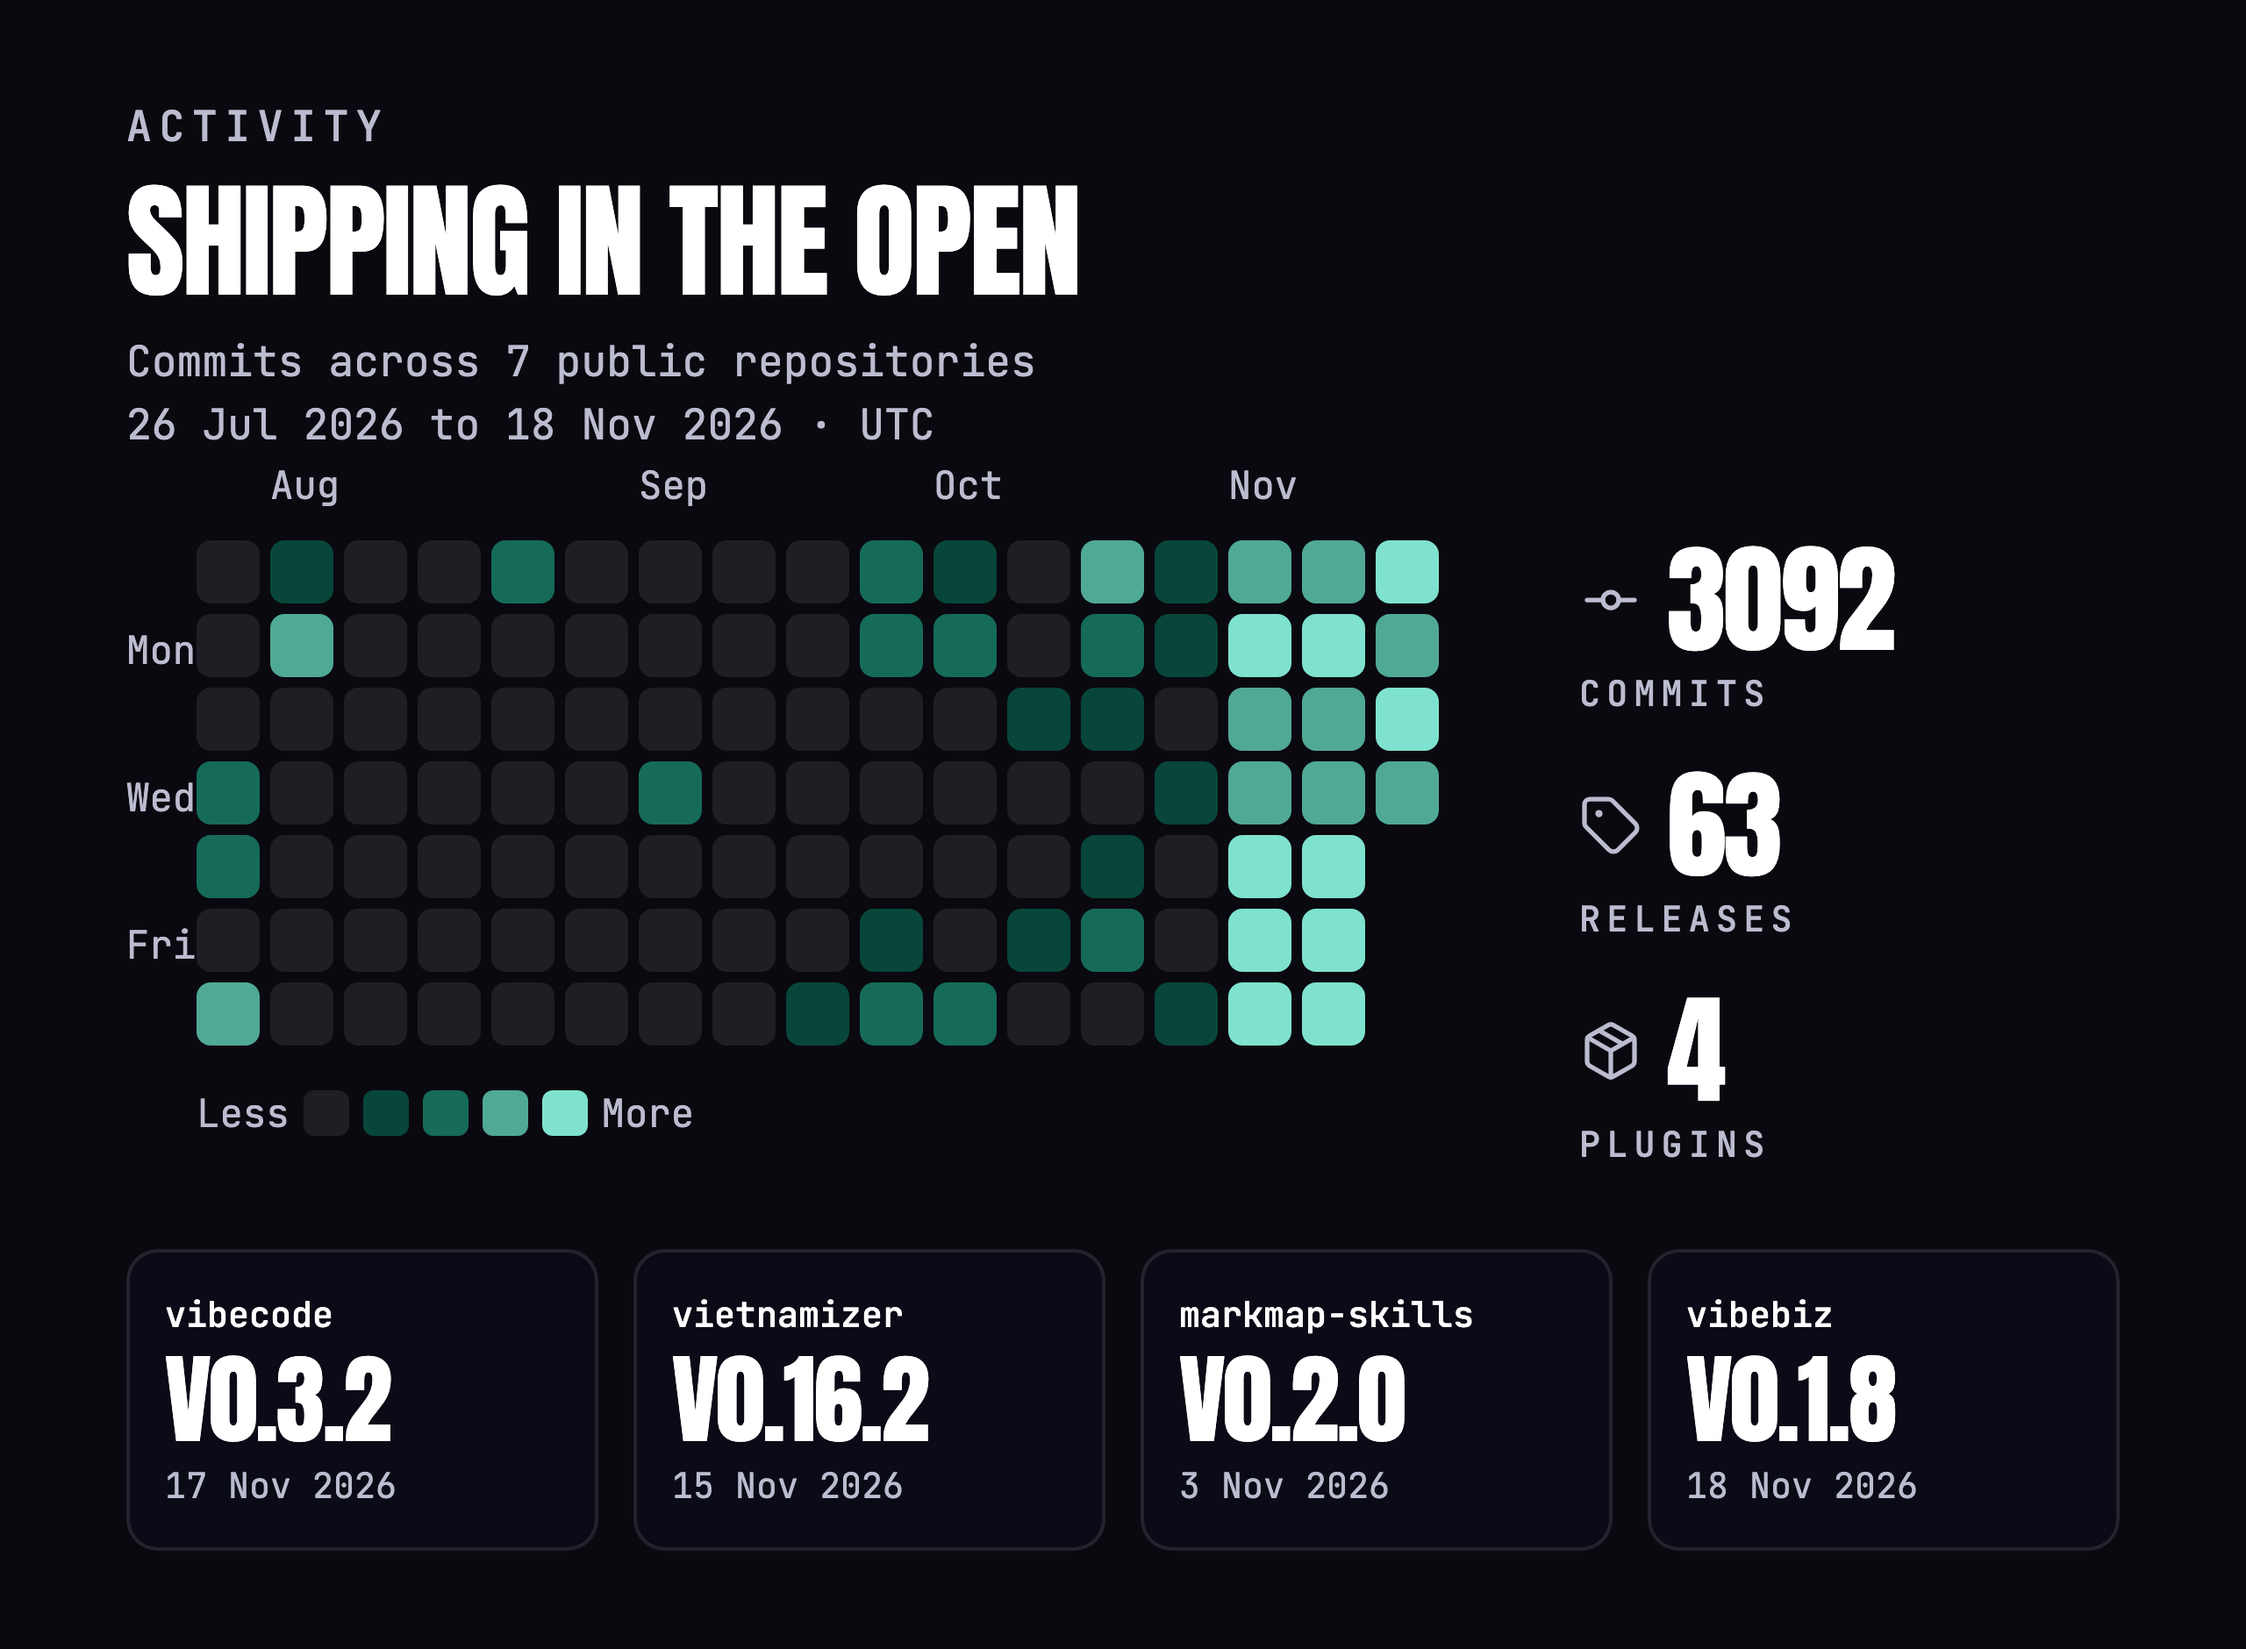
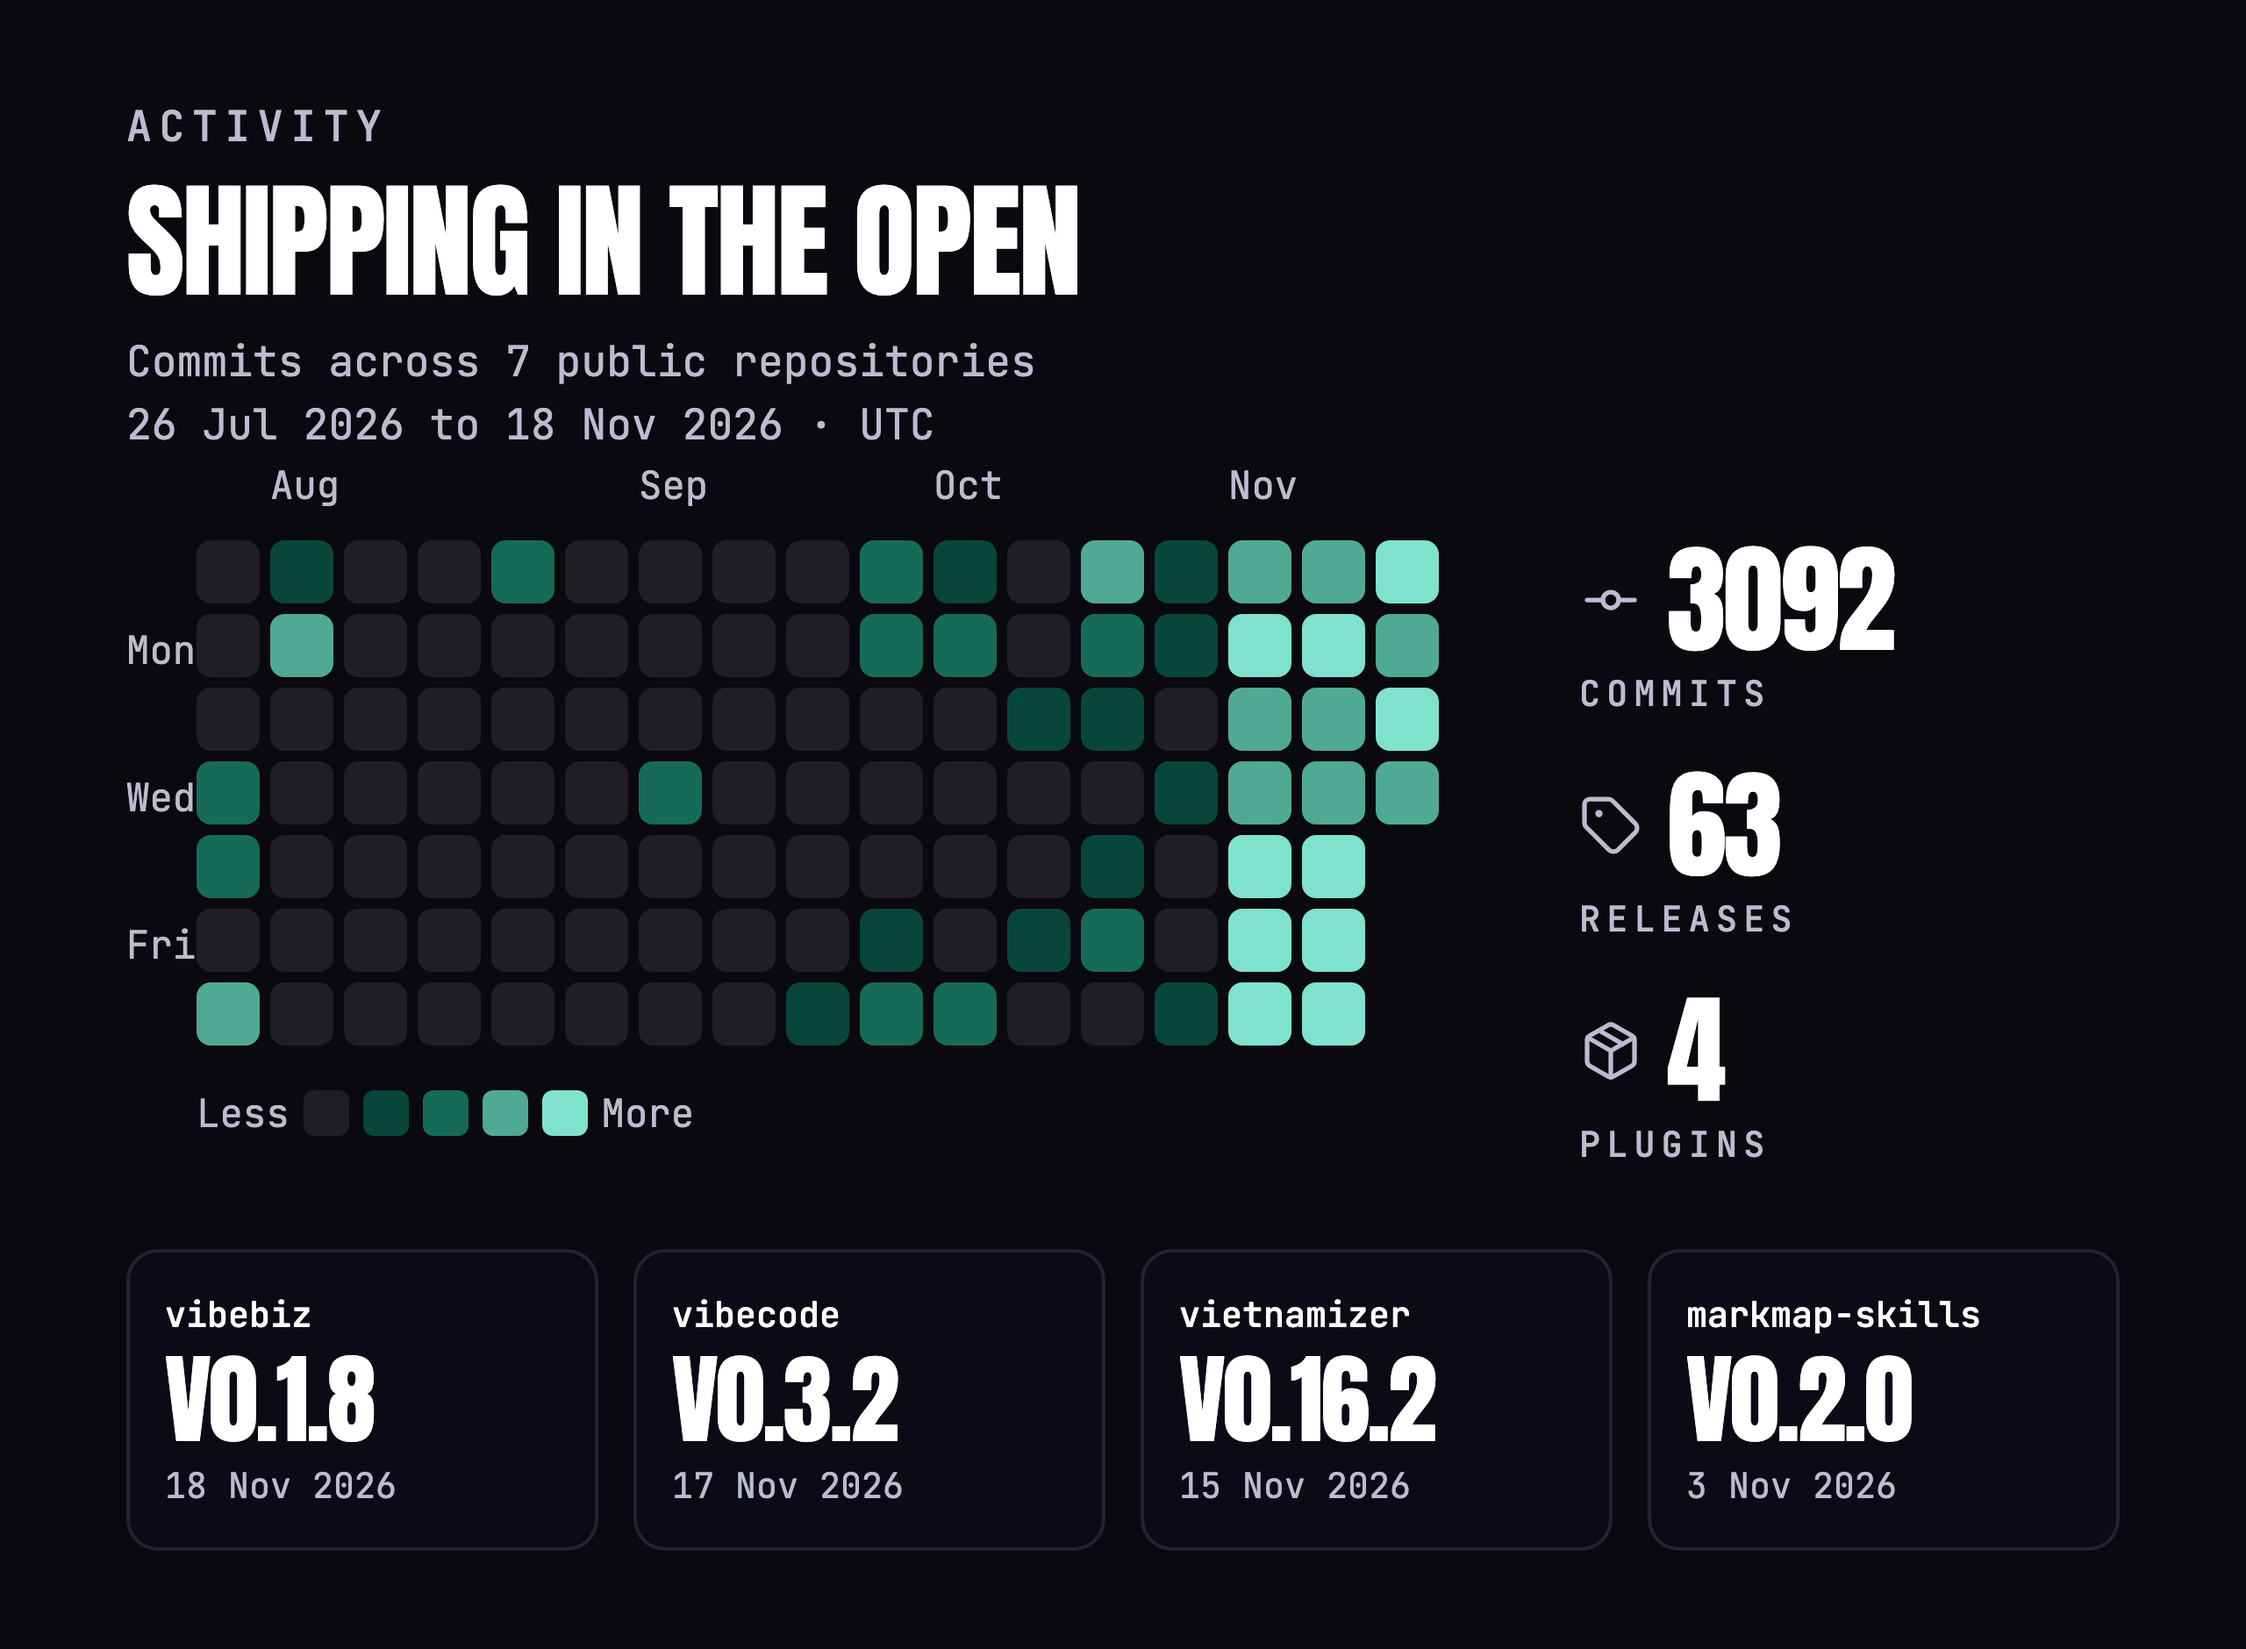
List vibebiz first on the org profile
Follows finolabs/plugins#46, which moves vibebiz to the top of the
catalog (Fio, 18/11/2026: the value stream starts with vibebiz). The
plugin table, activity.json, the activity tiles and the banner orbit
take the same order, so verify-readme.mjs keeps passing once the
catalog change lands.

diff --git a/profile/README.md b/profile/README.md
@@ -1,7 +1,7 @@
 <picture>
   <source media="(prefers-color-scheme: dark)" srcset="assets/banner-dark.png">
   <source media="(prefers-color-scheme: light)" srcset="assets/banner-light.png">
-  <img src="assets/banner-light.png" alt="FINOLABS. Your avatar, at work in the Agentic Universe. Finos, the AI avatar of finolabs.io, at the centre of an orbit of FINOLABS plugins: vibecode, vibebiz, vietnamizer and markmap-skills." width="1280">
+  <img src="assets/banner-light.png" alt="FINOLABS. Your avatar, at work in the Agentic Universe. Finos, the AI avatar of finolabs.io, at the centre of an orbit of FINOLABS plugins: vibebiz, vibecode, vietnamizer and markmap-skills." width="1280">
 </picture>
 
 **Real expertise, agent-ready.**
@@ -16,10 +16,10 @@ Every plugin lives in its own repository and is listed in one shared catalog, [`
 
 | Plugin | Description |
 | --- | --- |
+| [`vibebiz`](https://github.com/finolabs/vibebiz) | A product owner for founders and business leaders: turns a vague idea for a system, an AI use or an automation into a clear, challenged, measurable PRD. |
 | [`vibecode`](https://github.com/finolabs/vibecode) | 24 skills and 3 agents (reviewer, security-reviewer, navigator) for review routing, verification, setup, run hygiene and quota on demand. |
 | [`vietnamizer`](https://github.com/finolabs/vietnamizer) | Viết và biên tập tiếng Việt tự nhiên hơn, giữ ý, dữ kiện, code và giọng người viết; hỏi “Vietnamizer làm được gì?” để xem tính năng và thiết lập giọng. |
 | [`markmap-skills`](https://github.com/finolabs/markmap-skills) | Turn notes and documents into editable Markdown and interactive Markmap mindmaps, for Claude Code, Codex and Antigravity. No background daemon. |
-| [`vibebiz`](https://github.com/finolabs/vibebiz) | A product owner for founders and business leaders: turns a vague idea for a system, an AI use or an automation into a clear, challenged, measurable PRD. |
 
 `vibecode`, `vietnamizer` and `markmap-skills` are MIT licensed. `vibebiz` is source-available, not open source: free for noncommercial use under PolyForm Noncommercial 1.0.0, with a [commercial license](https://github.com/finolabs/vibebiz/blob/main/COMMERCIAL-LICENSE.md) for business use.
 
